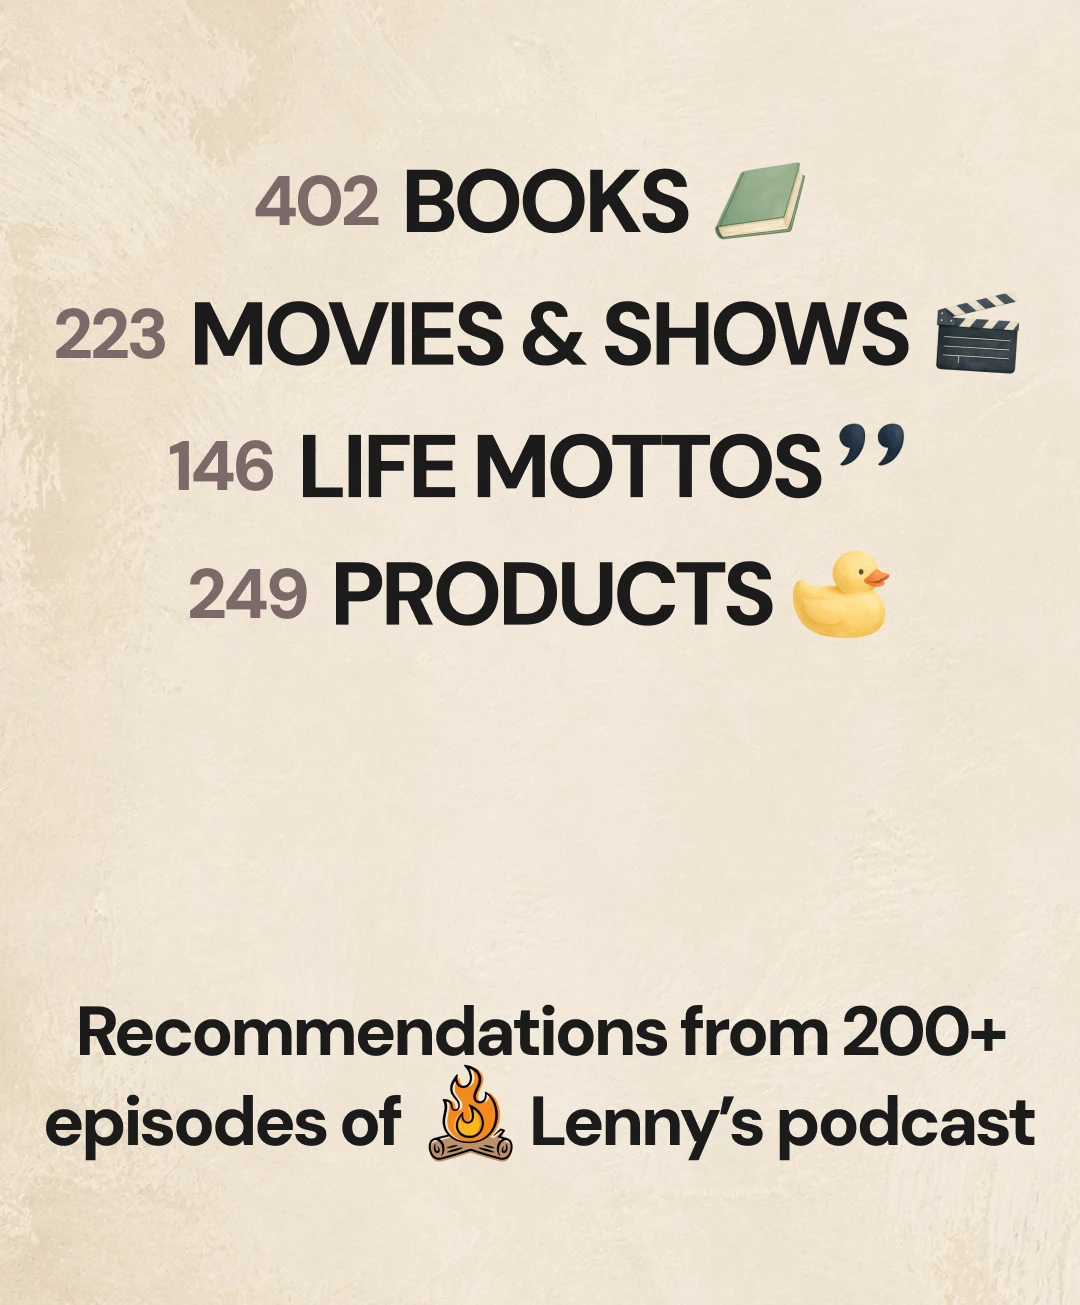
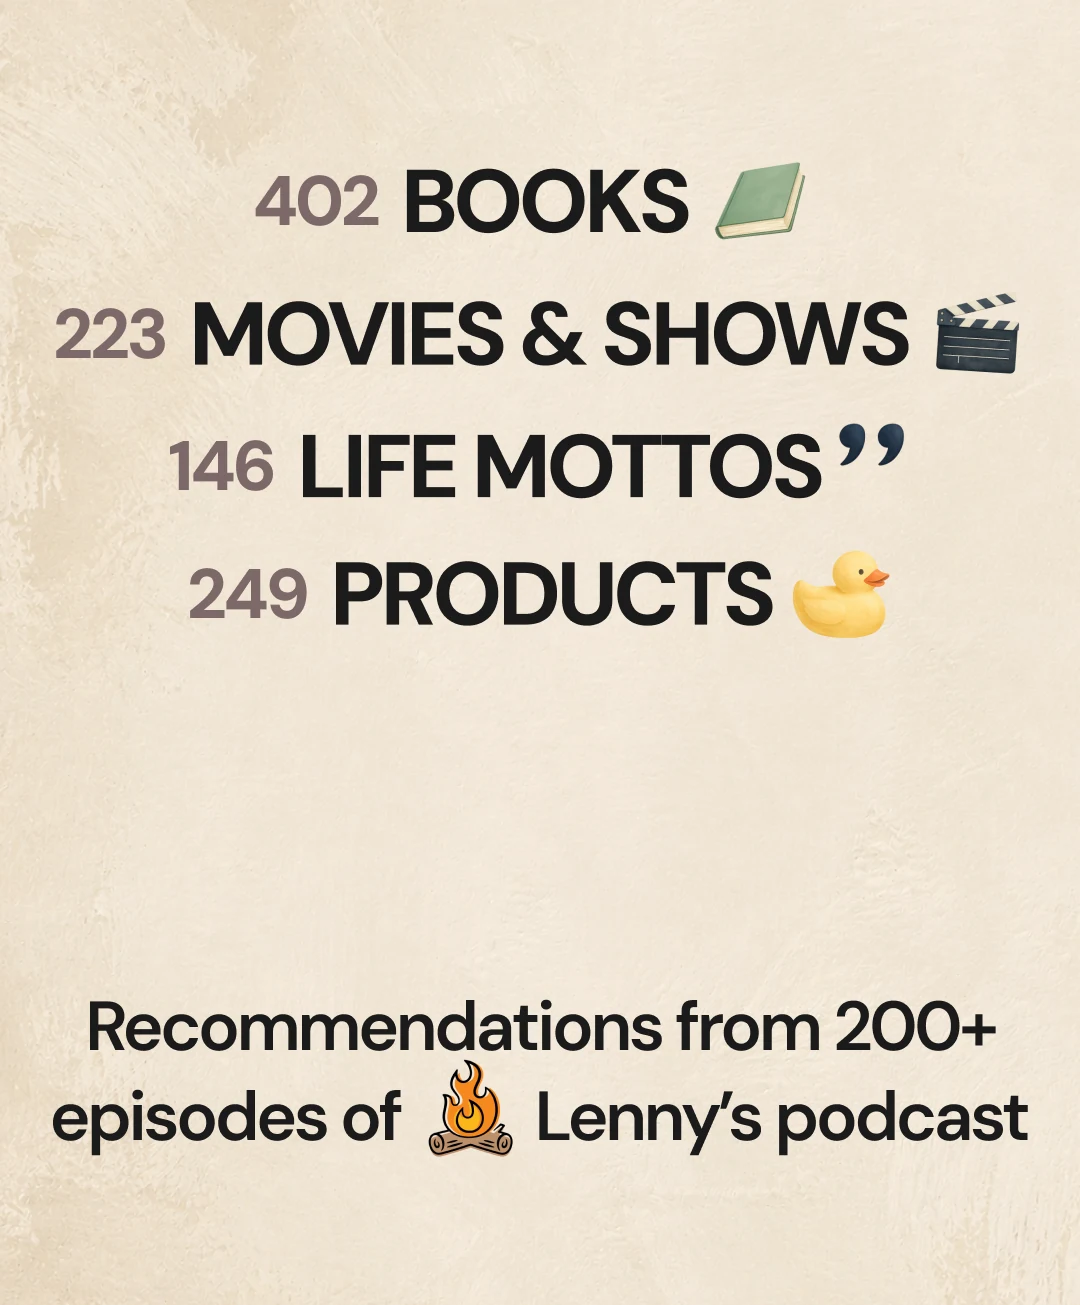
feat: refresh Builder Taste previews

Changed region(s): [[0.0306, 0.7663, 0.9778, 0.8889]]

diff --git a/app/portfolio/PortfolioPage.tsx b/app/portfolio/PortfolioPage.tsx
@@ -44,10 +44,10 @@ export default function PortfolioPage() {
         </div>
       </header>
 
-      <section className={styles.workSection} aria-labelledby="selected-work">
+      <section className={styles.workSection} aria-labelledby="featured-projects">
         <div className={styles.sectionHeader}>
-          <h1 className={styles.sectionTitle} id="selected-work">
-            Selected work
+          <h1 className={styles.sectionTitle} id="featured-projects">
+            Featured projects
             <sup className={styles.sectionCount}>[{projects.length}]</sup>
           </h1>
         </div>
